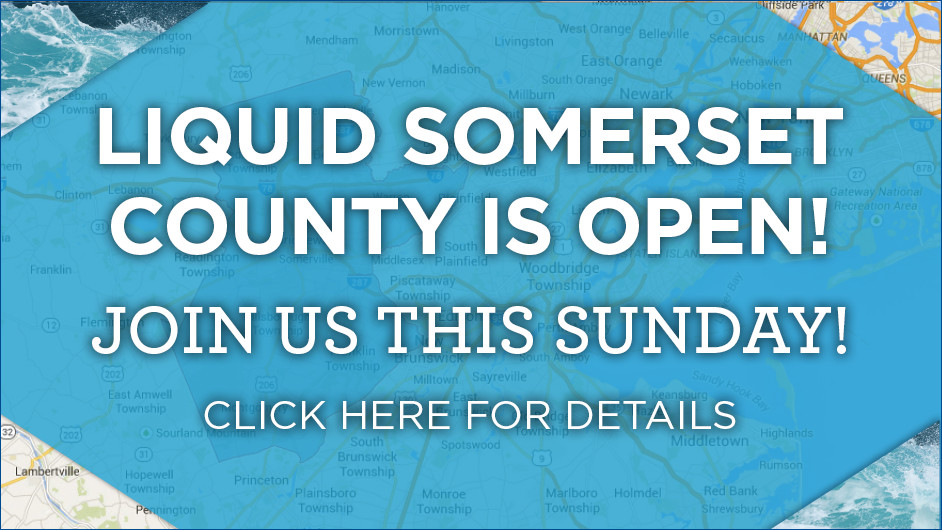
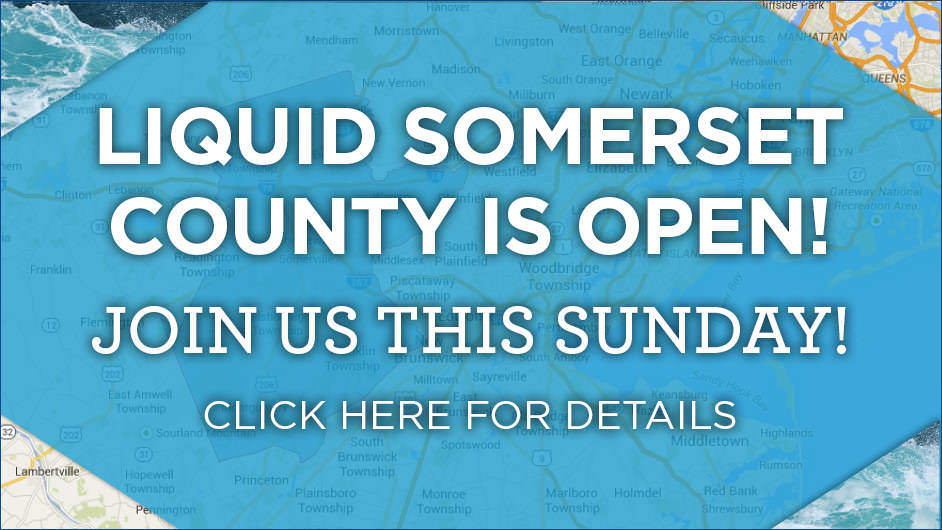
- Compressed images using JPEGMini and ImageOptim. - Added text2give css for text2give page. - Added text2give-js.js for text2give page. - Cleaned up enqueueing.

diff --git a/js/text2give-js.js b/js/text2give-js.js
@@ -1,0 +1,18 @@
+/**
+ * Text2Give Functions File
+ *
+ * Mobile Landing Page Functions File
+ */
+
+jQuery( function( $ ) {
+    "use strict";
+
+    // bind change event to select
+    $('#text2give').on('change', function () {
+        var url = $(this).val();
+        if (url) {
+            window.location = url; // redirect
+        }
+        return false;
+    } )
+} );

diff --git a/css/text2give.css b/css/text2give.css
@@ -1,0 +1,4 @@
+/* For Text2Give Landing Page */
+.page {
+    box-shadow: 0 0 25px rgba(0, 0, 0, 0) !important;
+}

diff --git a/functions.php b/functions.php
@@ -213,65 +213,53 @@ add_action( 'wp_head', 'liquidchurch_javascript_detection', 0 );
 function liquidchurch_scripts() {
 	// Add custom fonts, used in the main stylesheet.
 	wp_enqueue_style( 'liquidchurch-fonts', liquidchurch_fonts_url(), array(), null );
-
+    // Bootstrap
 	wp_enqueue_style( 'bootstrap', get_template_directory_uri() . '/css/bootstrap.min.css', array() );
-
-	wp_enqueue_style( 'font-awesome', get_template_directory_uri() . '/css/font-awesome.min.css', array() );	
-	wp_enqueue_style( 'style', get_template_directory_uri() . '/css/style.css', array() );	
-
-
+	// Font Awesome
+	wp_enqueue_style( 'font-awesome', get_template_directory_uri() . '/css/font-awesome.min.css', array() );
+    wp_enqueue_style('style', get_template_directory_uri() . '/css/style.css', array(), '1.5' );
+    if ( is_page( 'text2give' ) ) {
+        wp_enqueue_style( 'text2give', get_template_directory_uri() . '/css/text2give.css', array(), '1.5' );
+    }
 	// Add Genericons, used in the main stylesheet.
 	wp_enqueue_style( 'genericons', get_template_directory_uri() . '/genericons/genericons.css', array(), '3.4.1' );
-
 	// Theme stylesheet.
-	wp_enqueue_style( 'liquidchurch-style', get_stylesheet_uri() );
-
+    wp_enqueue_style( 'liquidchurch-style', get_stylesheet_uri() );
 	// Load the Internet Explorer specific stylesheet.
 	wp_enqueue_style( 'liquidchurch-ie', get_template_directory_uri() . '/css/ie.css', array( 'liquidchurch-style' ), '20160412' );
 	wp_style_add_data( 'liquidchurch-ie', 'conditional', 'lt IE 10' );
-
 	// Load the Internet Explorer 8 specific stylesheet.
 	wp_enqueue_style( 'liquidchurch-ie8', get_template_directory_uri() . '/css/ie8.css', array( 'liquidchurch-style' ), '20160412' );
 	wp_style_add_data( 'liquidchurch-ie8', 'conditional', 'lt IE 9' );
-
 	// Load the Internet Explorer 7 specific stylesheet.
 	wp_enqueue_style( 'liquidchurch-ie7', get_template_directory_uri() . '/css/ie7.css', array( 'liquidchurch-style' ), '20160412' );
-
+	// Load the Selectric stylesheet.
 	wp_enqueue_style( 'selectric-css', get_template_directory_uri() . '/css/selectric.css', array( 'liquidchurch-style' ), '20160412' );
-
-
 	wp_style_add_data( 'liquidchurch-ie7', 'conditional', 'lt IE 8' );
-
 	// Load the html5 shiv.
 	wp_enqueue_script( 'liquidchurch-html5', get_template_directory_uri() . '/js/html5.js', array(), '3.7.3' );
 	wp_script_add_data( 'liquidchurch-html5', 'conditional', 'lt IE 9' );
-
+    // Load JS
 	wp_enqueue_script( 'liquidchurch-skip-link-focus-fix', get_template_directory_uri() . '/js/skip-link-focus-fix.js', array(), '20160412', true );
-
+	// If Single Page with Threaded Comments
 	if ( is_singular() && comments_open() && get_option( 'thread_comments' ) ) {
 		wp_enqueue_script( 'comment-reply' );
 	}
-
+	// If Single Page Where Attachment Is Image
 	if ( is_singular() && wp_attachment_is_image() ) {
 		wp_enqueue_script( 'liquidchurch-keyboard-image-navigation', get_template_directory_uri() . '/js/keyboard-image-navigation.js', array( 'jquery' ), '20160412' );
 	}
-
-	wp_enqueue_script( 'liquidchurch-script', get_template_directory_uri() . '/js/functions.js', array( 'jquery' ), '20160412', true );
-
+    // Add script for landing page for text2give
+    if ( is_page( 'text2give') ) {
+        wp_enqueue_script( 'text2give-js', get_template_directory_uri() . '/js/text2give-js.js', array( 'jquery' ), '20170614', false  );
+    }
+    // Main Liquid Church JavaScript
+    wp_enqueue_script( 'liquidchurch-script', get_template_directory_uri() . '/js/functions.js', array( 'jquery' ), '20160412', true );
+	// Bootstrap JavaScript
 	wp_enqueue_script( 'bootstrap', get_template_directory_uri() . '/js/bootstrap.min.js', array( 'jquery' ), '20160412', true );
-	
-
+	// Selectric JavaScript
 	wp_enqueue_script( 'selectric', get_template_directory_uri() . '/js/jquery.selectric.js', array( 'jquery' ), '20160412', true );
-
-	wp_enqueue_style( 'wp-datatable-style', 'https://cdn.datatables.net/1.10.12/css/dataTables.bootstrap.min.css' );
-
-	wp_enqueue_script( 'wp-datatable-script', 'https://cdn.datatables.net/1.10.12/js/jquery.dataTables.min.js' );
-	wp_enqueue_script('wp-datatable-bootstrap-script', 'https://cdn.datatables.net/1.10.12/js/dataTables.bootstrap.min.js');
-
-	wp_enqueue_style( 'wp-dt-responsive-style', 'https://cdn.datatables.net/responsive/2.1.0/css/responsive.bootstrap.min.css' );
-	wp_enqueue_script( 'wp-dt-responsive-script', 'https://cdn.datatables.net/responsive/2.1.0/js/dataTables.responsive.min.js' );
-	wp_enqueue_script( 'wp-dt-bt-responsive-script', 'https://cdn.datatables.net/responsive/2.1.0/js/responsive.bootstrap.min.js' );
-
+    // Localization
 	wp_localize_script( 'liquidchurch-script', 'screenReaderText', array(
 		'expand'   => __( 'expand child menu', 'liquidchurch' ),
 		'collapse' => __( 'collapse child menu', 'liquidchurch' ),
